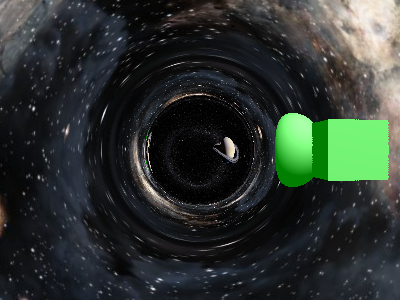
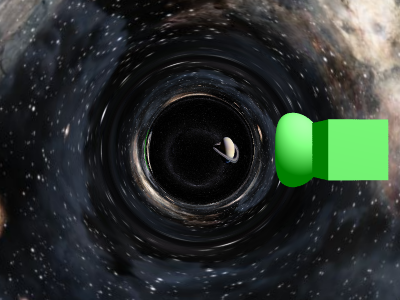
antialiasing precomputed rays and cube

diff --git a/src/renderer.cpp b/src/renderer.cpp
@@ -206,6 +206,8 @@ void render(RGBA *framebuffer, int outWidth, int outHeight, const ImageData &sph
         rayPositionCounts[i] = counter;
     }
 
+    const int AA_SAMPLES = 9;
+
     // sample the texture color based on the precomputed ray directions
     for (int j = 0; j < outHeight; ++j)
     {
@@ -213,157 +215,199 @@ void render(RGBA *framebuffer, int outWidth, int outHeight, const ImageData &sph
         {
             int idx = j * outWidth + i;
 
-            // Normalized device coordinates in [-1,1]
-            float ndcW = 2.0 * ((i + 0.5) / static_cast<float>(outWidth)) - 1.0;
-            float ndcH = 2.0 * ((j + 0.5) / static_cast<float>(outHeight)) - 1.0;
+            float r_accum = 0.0f;
+            float g_accum = 0.0f;
+            float b_accum = 0.0f;
 
-            // ray direction
-            glm::vec3 rayDir(1.0, planeWidth * (ndcW), planeHeight * (-ndcH));
-            glm::vec2 normalizedYZ = normalize(rayDir.yz());
-
-            // length at the yz-direction
-            float lengthYZ = length(rayDir.yz());
-            // get the precomputed ray
-            int rayInd =
-                static_cast<int>(ceil(static_cast<float>(numRays) * (lengthYZ / lengthDiagonal)));
-            RayState equatorialRay = rays[rayInd];
-
-            // normalize the angles
-            // first, convert the final ray direction into a unit vector
-            glm::vec4 finalEuclidean(cos(equatorialRay.phi), sin(equatorialRay.phi), 0.0, 0.0);
-            // next, apply the transformation with respect to the tilting of the camera
-            glm::vec3 cameraDirection(cos(phi_c), sin(phi_c), 0.0);
-            // the angle to rotate about the camera direction
-            float angle = atan2(normalizedYZ.y, normalizedYZ.x);
-            glm::mat4 rotationMatrix =
-                glm::rotate(glm::mat4(1.0f), angle, glm::normalize(cameraDirection));
-            glm::vec4 rotatedEuclidean = rotationMatrix * finalEuclidean;
-
-            float thetaFinal = acos(rotatedEuclidean[2] / length(rotatedEuclidean));
-            float phiFinal = atan2(rotatedEuclidean[1], rotatedEuclidean[0]);
-
-            // sample the color
-            RGBA color = {0, 0, 0, 255};
-
-            // if it intersects the sphere, display the color on the sphere
-            bool intersectsPrimitive = false;
-            float closestDistance = std::numeric_limits<float>::max();
-            RGBA finalColor = {0, 0, 0, 255};
-
-            for (const Object &currentObject : objects)
+            for (int sampleIdx = 0; sampleIdx < AA_SAMPLES; ++sampleIdx)
             {
-                glm::vec3 objectPos(currentObject.points[0][0], currentObject.points[0][1], currentObject.points[0][2]);
-                SphereData objectData;
-                float cubeHalfSide = 0.0f;
-                float lMinObject, lMaxObject;
 
-                if (currentObject.type == PrimitiveType::Sphere)
+                float offsetX = 0.0f;
+                float offsetY = 0.0f;
+
+                int gridX = sampleIdx % 3;
+                int gridY = sampleIdx / 3;
+
+                offsetX = (gridX - 1) * 0.33f;
+                offsetY = (gridY - 1) * 0.33f;
+
+                if (sampleIdx == 1)
                 {
-                    objectData = SphereData(objectPos, currentObject.points[0][3], -length(objectPos));
-                    lMinObject = objectData.l - objectData.radius;
-                    lMaxObject = objectData.l + objectData.radius;
+                    offsetX = 0.25f;
                 }
-                else
+                else if (sampleIdx == 2)
                 {
-                    cubeHalfSide = currentObject.side * 0.5f;
-                    objectData = SphereData(objectPos, cubeHalfSide * 1.732f, -length(objectPos));
-                    lMinObject = objectData.l - cubeHalfSide * 1.732f;
-                    lMaxObject = objectData.l + cubeHalfSide * 1.732f;
+                    offsetY = 0.25f;
+                }
+                else if (sampleIdx == 3)
+                {
+                    offsetX = 0.25f;
+                    offsetY = 0.25f;
                 }
 
-                for (int k = 1; k < rayPositionCounts[rayInd]; k++)
+                // Normalized device coordinates in [-1,1]
+                float ndcW = 2.0 * ((i + 0.5 + offsetX) / static_cast<float>(outWidth)) - 1.0;
+                float ndcH = 2.0 * ((j + 0.5 + offsetY) / static_cast<float>(outHeight)) - 1.0;
+
+                // ray direction
+                glm::vec3 rayDir(1.0, planeWidth * (ndcW), planeHeight * (-ndcH));
+                glm::vec2 normalizedYZ = normalize(rayDir.yz());
+
+                // length at the yz-direction
+                float lengthYZ = length(rayDir.yz());
+                // get the precomputed ray
+                int rayInd =
+                    static_cast<int>(ceil(static_cast<float>(numRays) * (lengthYZ / lengthDiagonal)));
+                rayInd = std::min(rayInd, numRays);
+                RayState equatorialRay = rays[rayInd];
+
+                // normalize the angles
+                // first, convert the final ray direction into a unit vector
+                glm::vec4 finalEuclidean(cos(equatorialRay.phi), sin(equatorialRay.phi), 0.0, 0.0);
+                // next, apply the transformation with respect to the tilting of the camera
+                glm::vec3 cameraDirection(cos(phi_c), sin(phi_c), 0.0);
+                // the angle to rotate about the camera direction
+                float angle = atan2(normalizedYZ.y, normalizedYZ.x);
+                glm::mat4 rotationMatrix =
+                    glm::rotate(glm::mat4(1.0f), angle, glm::normalize(cameraDirection));
+                glm::vec4 rotatedEuclidean = rotationMatrix * finalEuclidean;
+
+                float thetaFinal = acos(rotatedEuclidean[2] / length(rotatedEuclidean));
+                float phiFinal = atan2(rotatedEuclidean[1], rotatedEuclidean[0]);
+
+                // sample the color
+                RGBA color = {0, 0, 0, 255};
+
+                // if it intersects the sphere, display the color on the sphere
+                bool intersectsPrimitive = false;
+                float closestDistance = std::numeric_limits<float>::max();
+                RGBA finalColor = {0, 0, 0, 255};
+
+                for (const Object &currentObject : objects)
                 {
-                    glm::vec4 pos = rayPositions[k + rayInd * numRayPositions];
-                    if (pos[3] >= lMinObject && pos[3] <= lMaxObject)
+                    glm::vec3 objectPos(currentObject.points[0][0], currentObject.points[0][1], currentObject.points[0][2]);
+                    SphereData objectData;
+                    float cubeHalfSide = 0.0f;
+                    float lMinObject, lMaxObject;
+
+                    if (currentObject.type == PrimitiveType::Sphere)
                     {
-                        glm::vec3 posEuclidean(pos);
-                        posEuclidean = glm::vec3(rotationMatrix * glm::vec4(posEuclidean, 1.0));
+                        objectData = SphereData(objectPos, currentObject.points[0][3], -length(objectPos));
+                        lMinObject = objectData.l - objectData.radius;
+                        lMaxObject = objectData.l + objectData.radius;
+                    }
+                    else
+                    {
+                        cubeHalfSide = currentObject.side * 0.5f;
+                        objectData = SphereData(objectPos, cubeHalfSide * 1.732f, -length(objectPos));
+                        lMinObject = objectData.l - cubeHalfSide * 1.732f;
+                        lMaxObject = objectData.l + cubeHalfSide * 1.732f;
+                    }
 
-                        bool hitObject = false;
-                        glm::vec3 normal;
-                        glm::vec3 hitPoint;
-                        float hitDistance;
-
-                        if (currentObject.type == PrimitiveType::Sphere)
+                    for (int k = 1; k < rayPositionCounts[rayInd]; k++)
+                    {
+                        glm::vec4 pos = rayPositions[k + rayInd * numRayPositions];
+                        if (pos[3] >= lMinObject && pos[3] <= lMaxObject)
                         {
-                            float dist = length(posEuclidean - objectData.center);
-                            if (dist - objectData.radius < 0.0)
-                            {
-                                hitObject = true;
-                                hitPoint = normalize(posEuclidean - objectData.center) * objectData.radius + objectData.center;
-                                normal = normalize(hitPoint - objectData.center);
-                                hitDistance = length(hitPoint - glm::vec3(rayPositions[k - 1 + rayInd * numRayPositions]));
-                            }
-                        }
-                        else
-                        {
-                            glm::vec3 prevPos = glm::vec3(rayPositions[k - 1 + rayInd * numRayPositions]);
-                            prevPos = glm::vec3(rotationMatrix * glm::vec4(prevPos, 1.0));
-                            glm::vec3 rayDirection = normalize(posEuclidean - prevPos);
+                            glm::vec3 posEuclidean(pos);
+                            posEuclidean = glm::vec3(rotationMatrix * glm::vec4(posEuclidean, 1.0));
 
-                            float tNear, tFar;
-                            if (intersectCube(prevPos, rayDirection, objectData.center, cubeHalfSide, tNear, tFar))
-                            {
-                                hitObject = true;
-                                hitPoint = prevPos + rayDirection * tNear;
-                                normal = getCubeNormal(hitPoint, objectData.center, cubeHalfSide);
-                                hitDistance = tNear;
-                            }
-                        }
+                            bool hitObject = false;
+                            glm::vec3 normal;
+                            glm::vec3 hitPoint;
+                            float hitDistance;
 
-                        if (hitObject && hitDistance < closestDistance)
-                        {
-                            closestDistance = hitDistance;
-                            intersectsPrimitive = true;
-
-                            // sample the texture color
-                            glm::vec4 posIntersection;
-                            if (pos[3] > 0)
+                            if (currentObject.type == PrimitiveType::Sphere)
                             {
-                                posIntersection = glm::vec4(hitPoint, 1.0);
+                                float dist = length(posEuclidean - objectData.center);
+                                if (dist - objectData.radius < 0.0)
+                                {
+                                    hitObject = true;
+                                    hitPoint = normalize(posEuclidean - objectData.center) * objectData.radius + objectData.center;
+                                    normal = normalize(hitPoint - objectData.center);
+                                    hitDistance = length(hitPoint - glm::vec3(rayPositions[k - 1 + rayInd * numRayPositions]));
+                                }
                             }
                             else
                             {
-                                posIntersection = glm::vec4(hitPoint, -1.0);
+                                glm::vec3 prevPos = glm::vec3(rayPositions[k - 1 + rayInd * numRayPositions]);
+                                prevPos = glm::vec3(rotationMatrix * glm::vec4(prevPos, 1.0));
+                                glm::vec3 rayDirection = normalize(posEuclidean - prevPos);
+
+                                float tNear, tFar;
+                                if (intersectCube(prevPos, rayDirection, objectData.center, cubeHalfSide, tNear, tFar))
+                                {
+                                    hitObject = true;
+                                    hitPoint = prevPos + rayDirection * tNear;
+                                    normal = getCubeNormal(hitPoint, objectData.center, cubeHalfSide);
+                                    hitDistance = tNear;
+                                }
                             }
 
-                            glm::vec3 dirToCamera = normalize(
-                                glm::vec3(rayPositions[k - 1 + rayInd * numRayPositions] - pos));
+                            if (hitObject && hitDistance < closestDistance)
+                            {
+                                closestDistance = hitDistance;
+                                intersectsPrimitive = true;
 
-                            Hit hit = {posIntersection, dirToCamera, objectData};
-                            glm::vec3 color_vec =
-                                shadePixel(hit, currentObject.textureFile, BumpMap{nullptr, 0, 0},
-                                           lights, currentObject.type, normal) *
-                                255.f;
-                            finalColor = RGBA{static_cast<std::uint8_t>(std::min(255.f, color_vec.x)),
-                                              static_cast<std::uint8_t>(std::min(255.f, color_vec.y)),
-                                              static_cast<std::uint8_t>(std::min(255.f, color_vec.z)), 255};
+                                // sample the texture color
+                                glm::vec4 posIntersection;
+                                if (pos[3] > 0)
+                                {
+                                    posIntersection = glm::vec4(hitPoint, 1.0);
+                                }
+                                else
+                                {
+                                    posIntersection = glm::vec4(hitPoint, -1.0);
+                                }
 
-                            break;
+                                glm::vec3 dirToCamera = normalize(
+                                    glm::vec3(rayPositions[k - 1 + rayInd * numRayPositions] - pos));
+
+                                Hit hit = {posIntersection, dirToCamera, objectData};
+                                glm::vec3 color_vec =
+                                    shadePixel(hit, currentObject.textureFile, BumpMap{nullptr, 0, 0},
+                                               lights, currentObject.type, normal) *
+                                    255.f;
+                                finalColor = RGBA{static_cast<std::uint8_t>(std::min(255.f, color_vec.x)),
+                                                  static_cast<std::uint8_t>(std::min(255.f, color_vec.y)),
+                                                  static_cast<std::uint8_t>(std::min(255.f, color_vec.z)), 255};
+
+                                break;
+                            }
                         }
                     }
                 }
-            }
 
-            if (intersectsPrimitive)
-            {
-                color = finalColor;
-            }
-
-            // if not, display the skybox texture
-            if (!intersectsPrimitive && abs(equatorialRay.l) > lMax)
-            {
-                if (equatorialRay.l > 0.0)
+                if (intersectsPrimitive)
                 {
-                    color = sampleCelestial(sphereUpper, thetaFinal, phiFinal);
+                    color = finalColor;
                 }
-                else
+
+                // if not, display the skybox texture
+                if (!intersectsPrimitive && abs(equatorialRay.l) > lMax)
                 {
-                    color = sampleCelestial(sphereLower, thetaFinal, phiFinal);
+                    if (equatorialRay.l > 0.0)
+                    {
+                        color = sampleCelestial(sphereUpper, thetaFinal, phiFinal);
+                    }
+                    else
+                    {
+                        color = sampleCelestial(sphereLower, thetaFinal, phiFinal);
+                    }
                 }
+
+                r_accum += color.r;
+                g_accum += color.g;
+                b_accum += color.b;
             }
 
-            framebuffer[idx] = color;
+            RGBA finalPixelColor;
+            finalPixelColor.r = static_cast<uint8_t>(r_accum / AA_SAMPLES);
+            finalPixelColor.g = static_cast<uint8_t>(g_accum / AA_SAMPLES);
+            finalPixelColor.b = static_cast<uint8_t>(b_accum / AA_SAMPLES);
+            finalPixelColor.a = 255;
+
+            framebuffer[idx] = finalPixelColor;
         }
     }
 }

diff --git a/src/lighting.cpp b/src/lighting.cpp
@@ -37,7 +37,7 @@ glm::vec3 shadePixel(const Hit &hit, const ImageData &texture, const BumpMap &bu
     const float shininess = 0.5f;
 
     const glm::vec3 obj_A = glm::vec3(0.f, 0.5f, 0.f) * ka; // HARDCODED
-    glm::vec3 obj_D = glm::vec3(1.f, 1.f, 1.f) * kd;       // HARDCODED
+    glm::vec3 obj_D = glm::vec3(1.f, 1.f, 1.f) * kd;        // HARDCODED
     // const glm::vec3 obj_S = glm::vec3(1.f, 1.f, 1.f) * ks; // HARDCODED
 
     const glm::vec3 obj_point = glm::normalize(glm::vec3(hit.point) - hit.sphere.center); // point in object space
@@ -55,7 +55,7 @@ glm::vec3 shadePixel(const Hit &hit, const ImageData &texture, const BumpMap &bu
     // const glm::vec3 V = glm::normalize(world_camera - glm::vec3(intersect));
 
     // Blend obj_D with textures
-    const bool enableTextureMap = false;                    // HARDCODED
+    const bool enableTextureMap = false;                   // HARDCODED
     const FilterType textureFilter = FilterType::Nearest; // HARDCODED
 
     if (enableTextureMap && texture.width > 0)
@@ -141,7 +141,7 @@ glm::vec3 shadePixel(const Hit &hit, const ImageData &texture, const BumpMap &bu
     const float shininess = 0.5f;
 
     const glm::vec3 obj_A = glm::vec3(0.f, 0.5f, 0.f) * ka; // HARDCODED
-    glm::vec3 obj_D = glm::vec3(1.f, 1.f, 1.f) * kd;       // HARDCODED
+    glm::vec3 obj_D = glm::vec3(1.f, 1.f, 1.f) * kd;        // HARDCODED
     // const glm::vec3 obj_S = glm::vec3(1.f, 1.f, 1.f) * ks; // HARDCODED
 
     const glm::vec3 obj_point = glm::vec3(hit.point) - hit.sphere.center; // point in object space
@@ -150,25 +150,28 @@ glm::vec3 shadePixel(const Hit &hit, const ImageData &texture, const BumpMap &bu
 
     uv uv_map;
     glm::vec3 obj_normal;
-    
-    if (objectType == PrimitiveType::Sphere) {
+
+    if (objectType == PrimitiveType::Sphere)
+    {
         const glm::vec3 normalized_point = glm::normalize(obj_point);
         uv_map = get_uv(normalized_point);
-        
+
         const bool enableBumpMap = false; // HARDCODED
         obj_normal = enableBumpMap && bump_map.width > 0
-            ? get_bump_normal(bump_map, FilterType::Bilinear, uv_map, 0.01, normalized_point)
-            : normalized_point;
-    } else {
+                         ? get_bump_normal(bump_map, FilterType::Bilinear, uv_map, 0.01, normalized_point)
+                         : normalized_point;
+    }
+    else
+    {
         uv_map = get_cube_uv(obj_point, surfaceNormal);
         obj_normal = surfaceNormal;
     }
-    
+
     const glm::vec3 N = glm::normalize(/*transform **/ obj_normal);
     // const glm::vec3 V = glm::normalize(world_camera - glm::vec3(intersect));
 
     // Blend obj_D with textures
-    const bool enableTextureMap = false;                    // HARDCODED
+    const bool enableTextureMap = false;                   // HARDCODED
     const FilterType textureFilter = FilterType::Nearest; // HARDCODED
 
     if (enableTextureMap && texture.width > 0)
